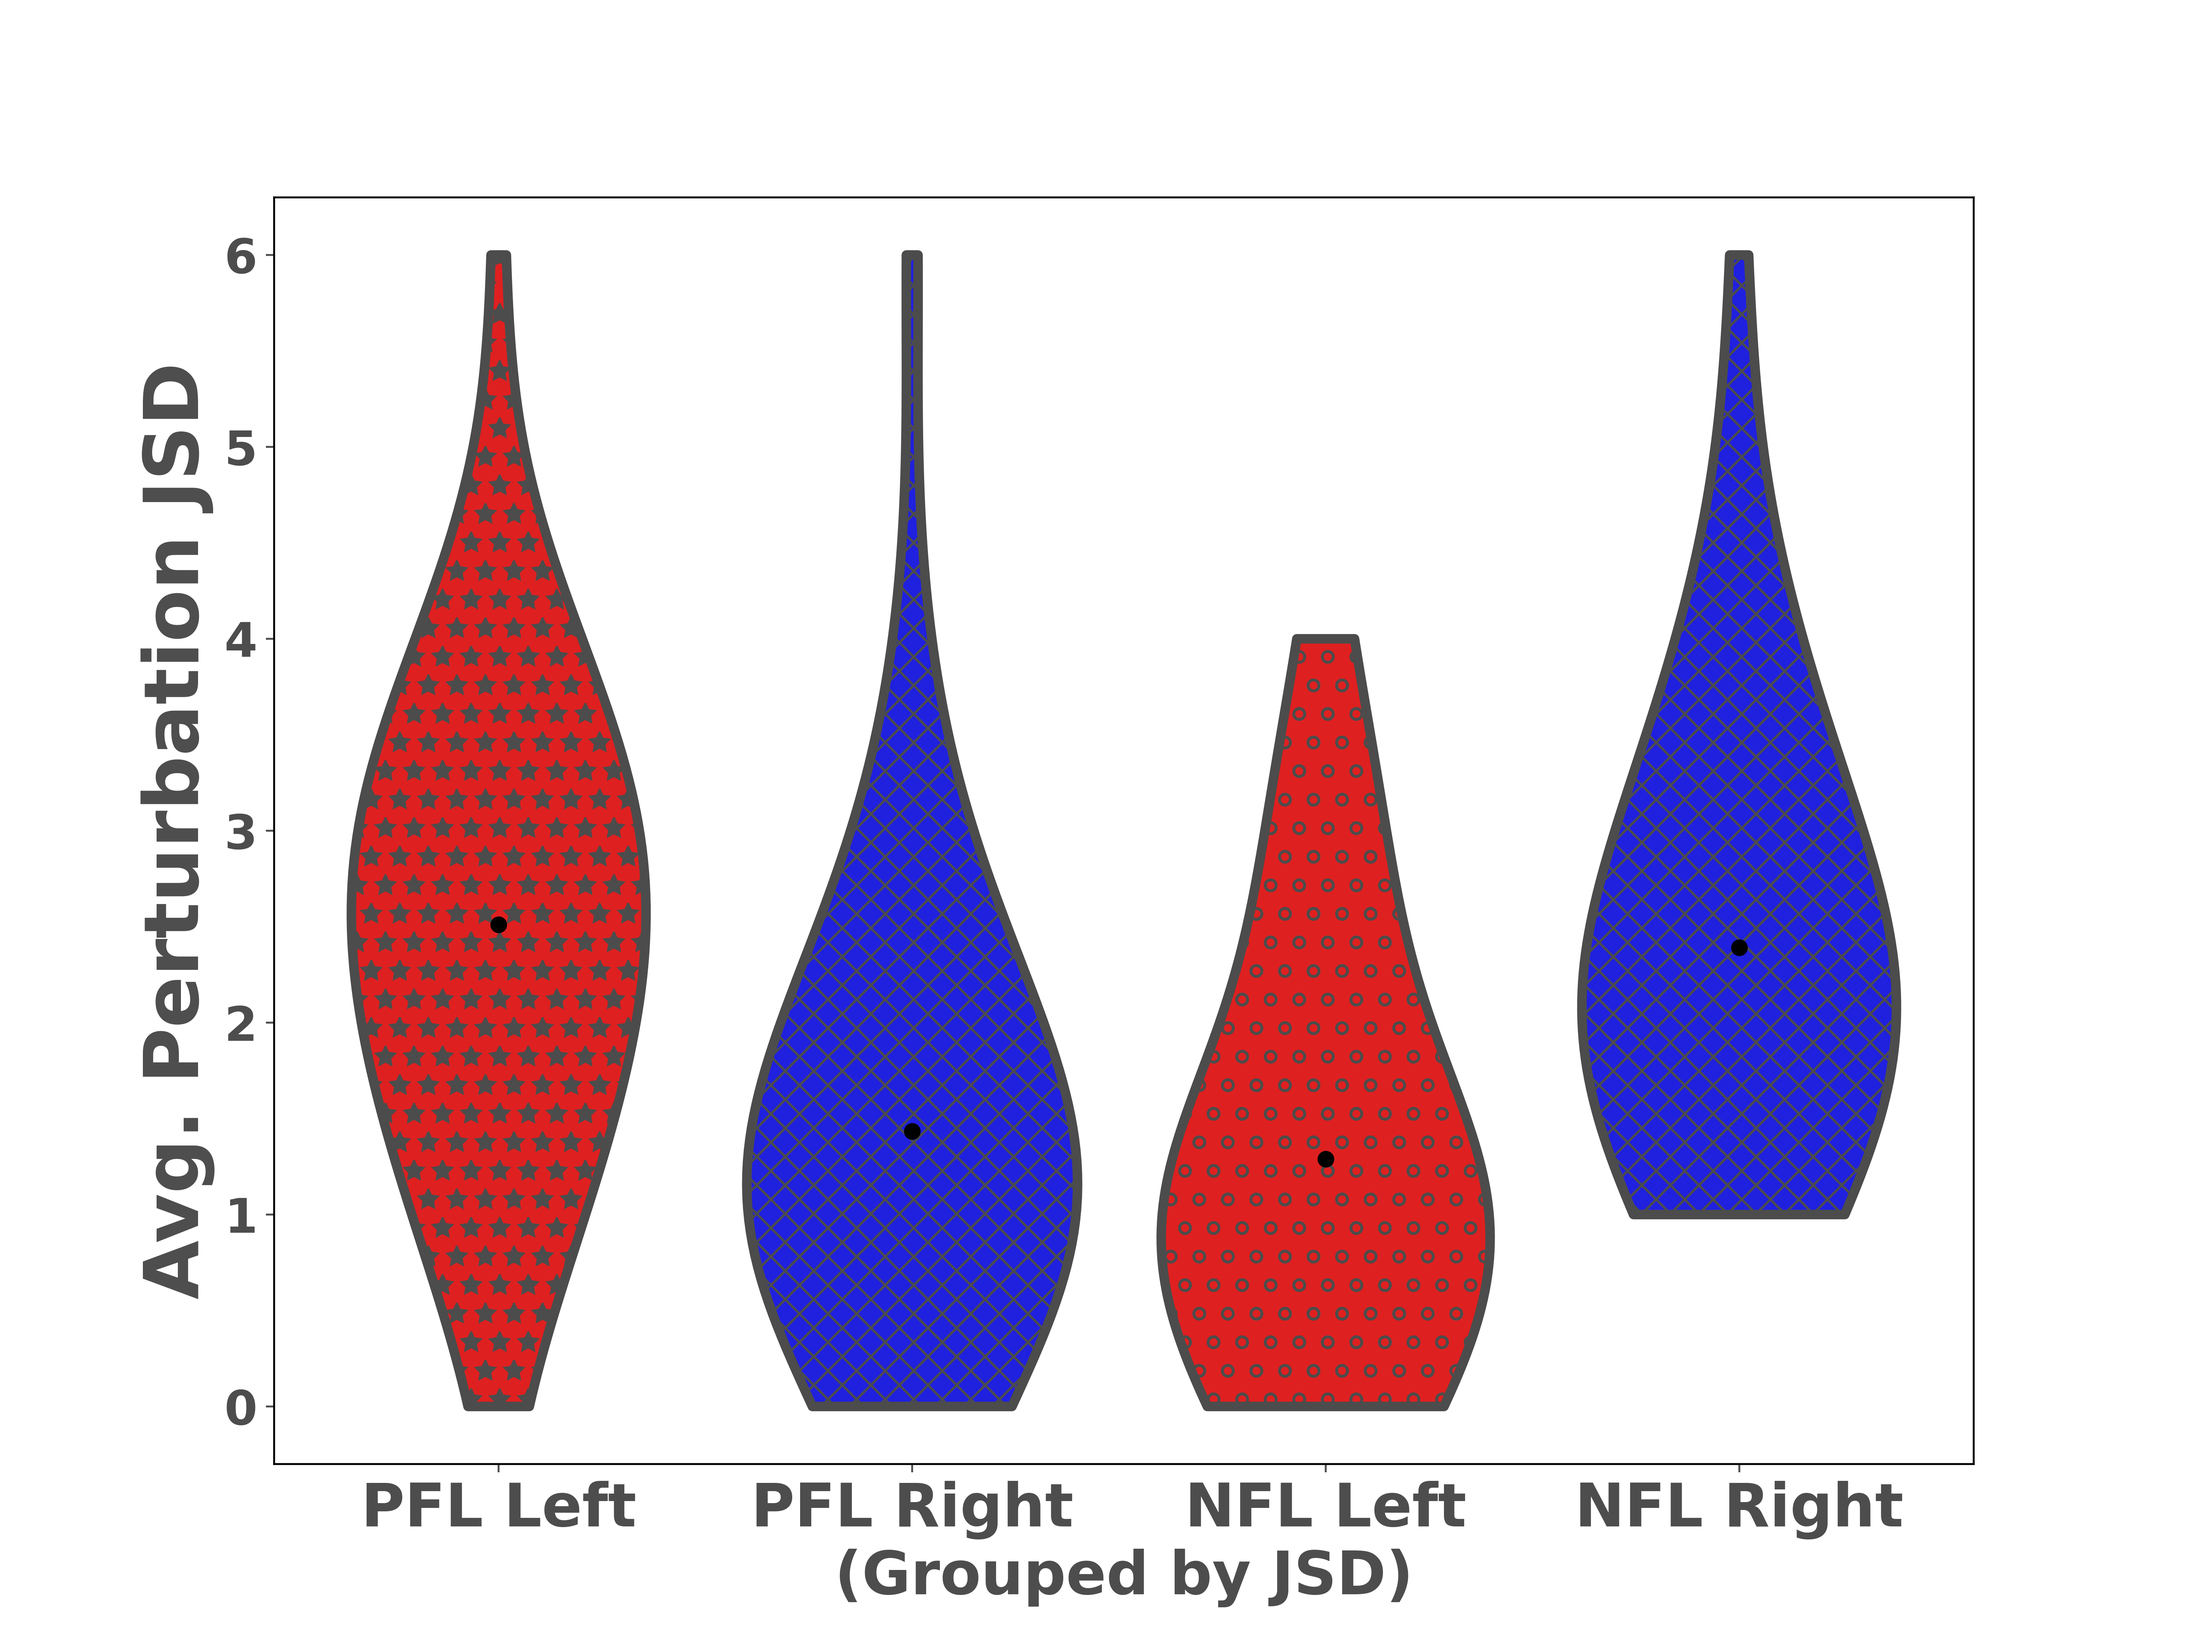
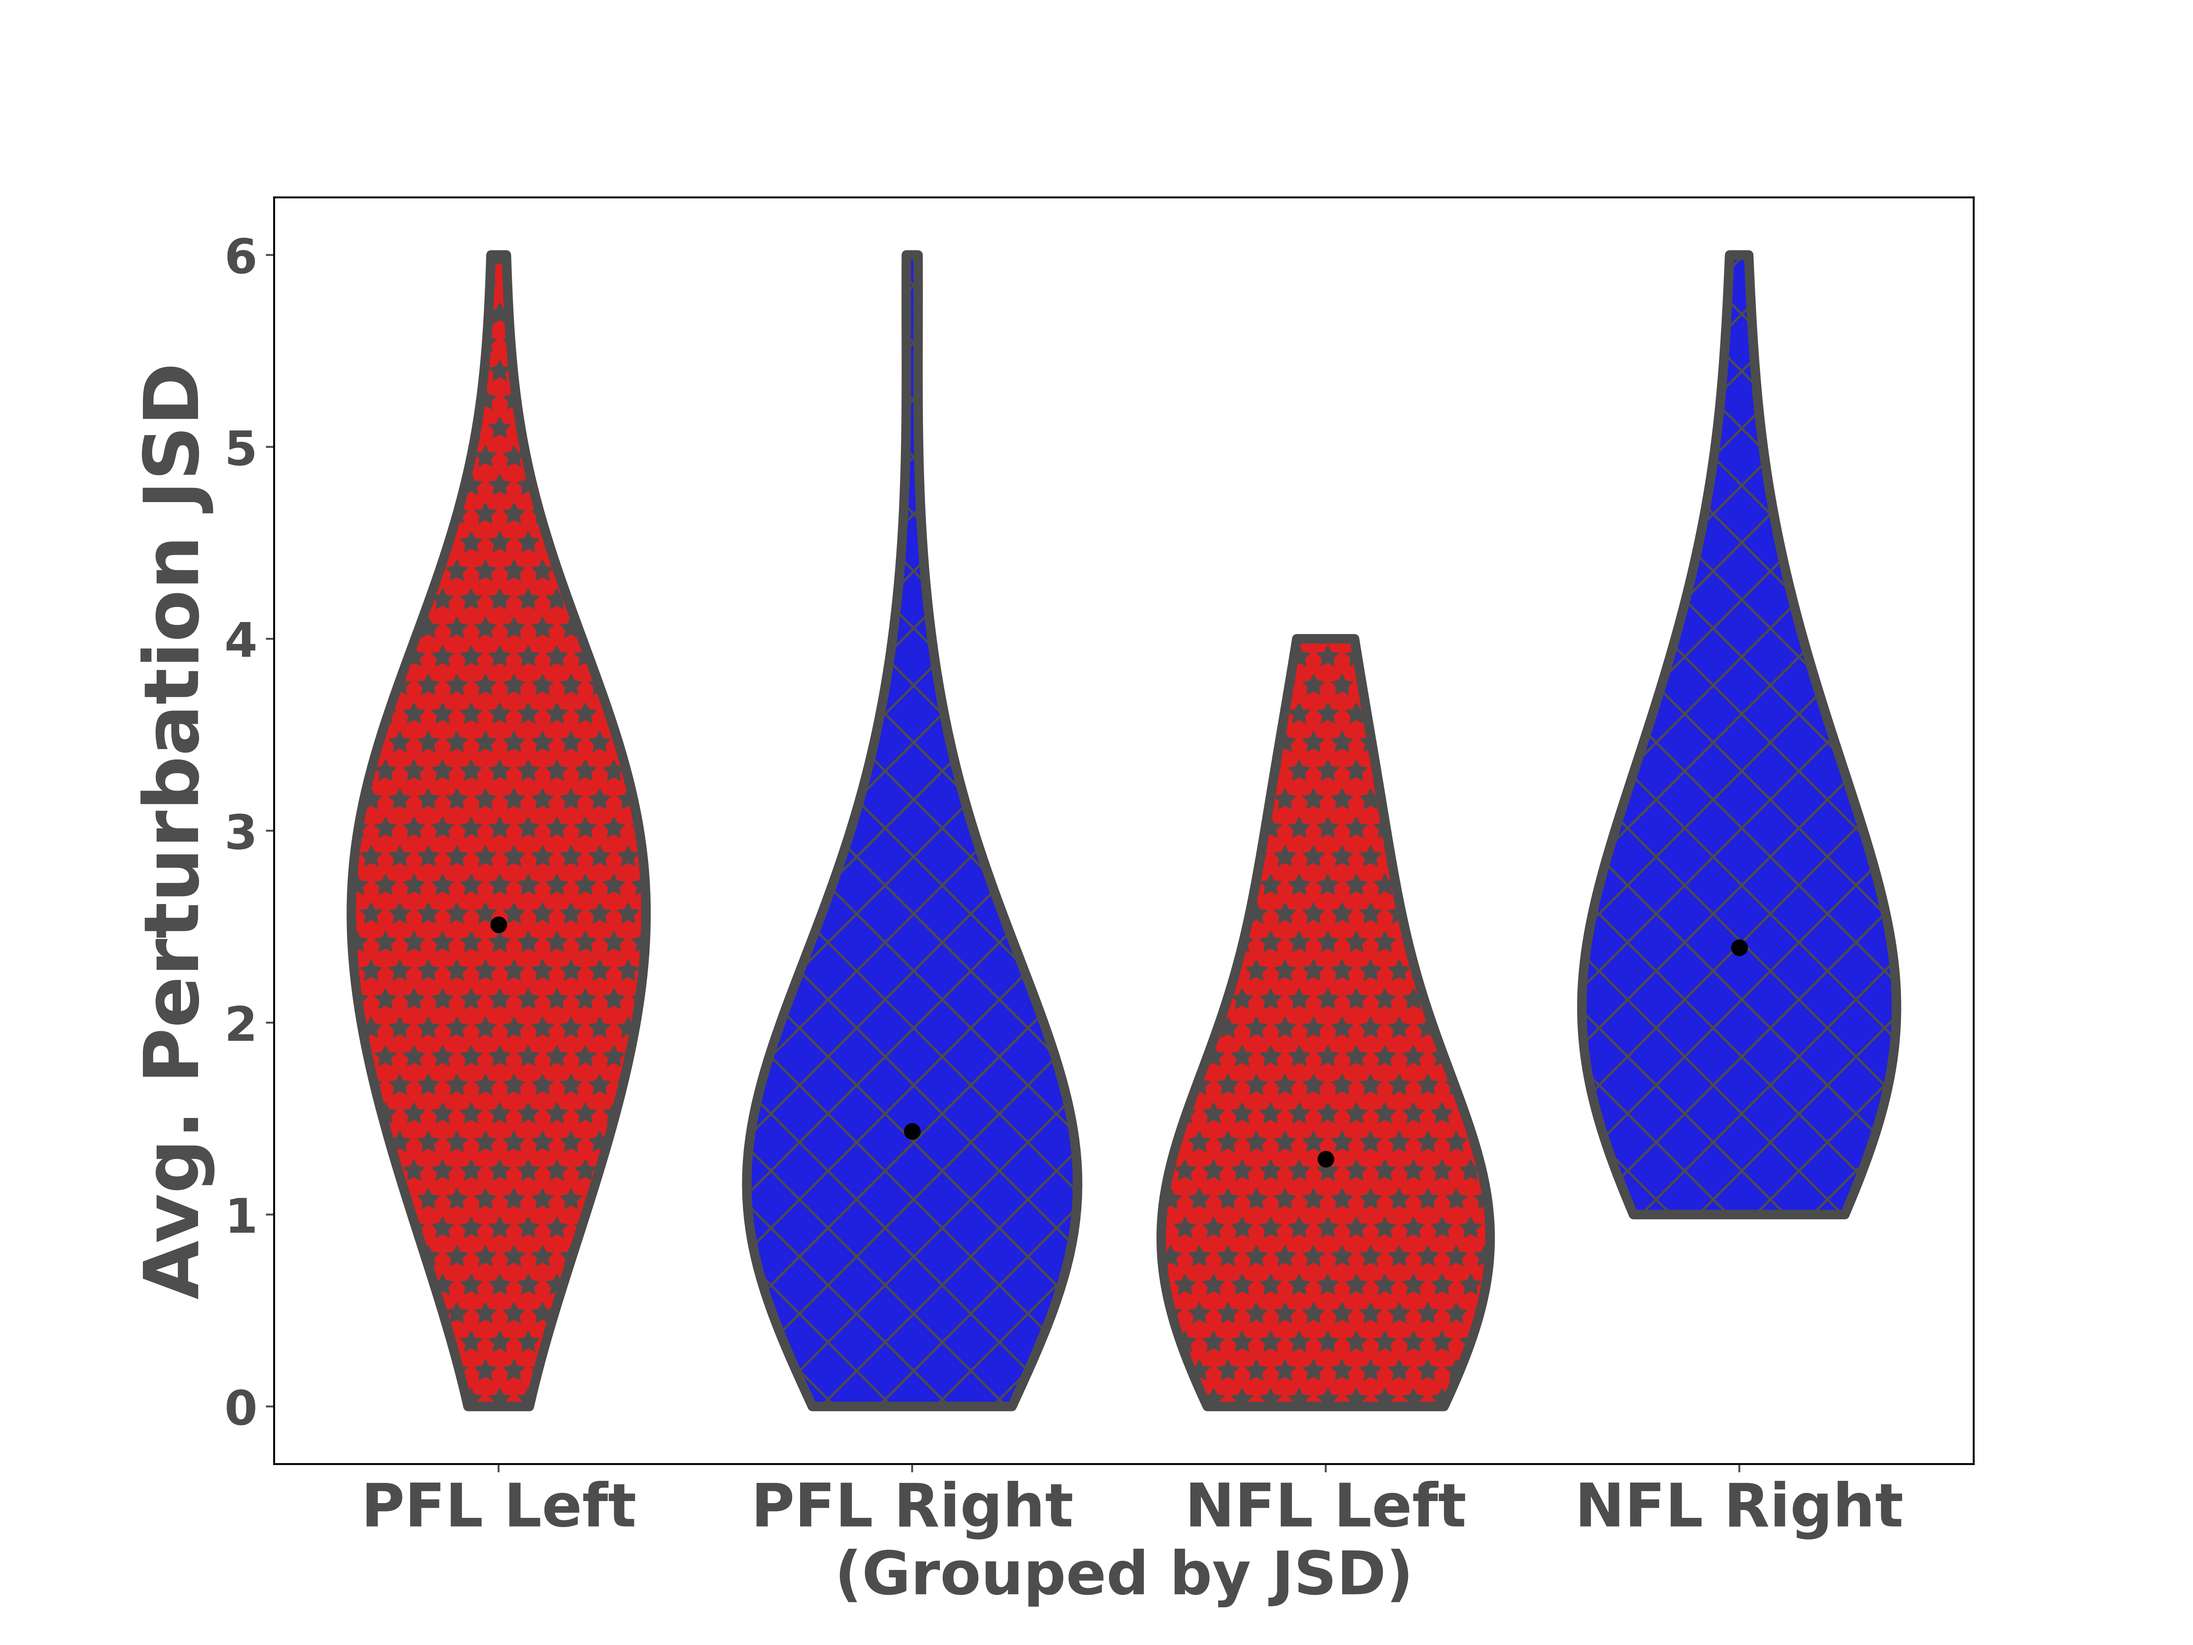
fixedfig8

Changed region(s): [[0.5312, 0.4062, 0.6875, 0.8438], [0.3438, 0.4688, 0.4688, 0.8438], [0.7188, 0.3125, 0.8438, 0.7188]]

diff --git a/Fig8/Causal_code_analysis/net_plotter.py b/Fig8/Causal_code_analysis/net_plotter.py
@@ -98,15 +98,16 @@ def lineplotter(net_name):
     x_arr_str = [str(i) for i in range(len(dn_pjsd_mean))]
     plt.xticks(x_arr,x_arr_str)
     x_arr = np.array(x_arr)
-    #plt.plot(x_arr, dn_pjsd_mean, color='b' , linestyle = 'solid' , linewidth = 4)
+    plt.plot(x_arr, dn_pjsd_mean, color='b' , linestyle = 'solid' , linewidth = 4)
     #plt.errorbar(x_arr,dn_pjsd_mean, dn_pjsd_err, ecolor='k', elinewidth = 4 , capsize = 12)
-    plt.errorbar(x_arr, dn_pjsd_mean, dn_pjsd_err, color='b' , linestyle = 'solid' , linewidth = 4, ecolor='k', elinewidth = 4, capsize = 16)
+    plt.errorbar(x_arr, dn_pjsd_mean, dn_pjsd_err, color='b' , linestyle = 'solid' , linewidth = 4, ecolor='k', elinewidth = 4, capsize = 16 , label = '_nolegend_')
     
     x_arr = [i for i in range(len(up_pjsd_mean))]
     x_arr_str = [str(i) for i in range(len(up_pjsd_mean))]
     plt.xticks(x_arr,x_arr_str)
     x_arr = np.array(x_arr)
-    plt.errorbar(x_arr, up_pjsd_mean,up_pjsd_err, color='g' , linestyle = 'dashed' , linewidth = 4, ecolor='k', elinewidth = 4, capsize = 16)
+    plt.plot(x_arr, up_pjsd_mean, color='g' , linestyle = 'dashed' , linewidth = 4)
+    plt.errorbar(x_arr, up_pjsd_mean,up_pjsd_err, color='g' , linestyle = 'dashed' , linewidth = 4, ecolor='k', elinewidth = 4, capsize = 16, label = '_nolegend_')
 
     
     plt.legend(['Increase FWPC', 'Decrease FWPC'])
@@ -153,14 +154,15 @@ def lineplotter2(fig,ax,net_name, c1,lstyle):
     x_arr_str = [str(i) for i in range(len(dn_pjsd_mean))]
     plt.xticks(x_arr,x_arr_str)
     x_arr = np.array(x_arr)
-    #plt.plot(x_arr, dn_pjsd_mean, color='b' , linestyle = 'solid' , linewidth = 4)
+    plt.plot(x_arr, dn_pjsd_mean, color=c1 ,linestyle = lstyle , linewidth = 4)
     #plt.errorbar(x_arr,dn_pjsd_mean, dn_pjsd_err, ecolor='k', elinewidth = 4 , capsize = 12)
-    plt.errorbar(x_arr, dn_pjsd_mean, dn_pjsd_err, color=c1 , linestyle = lstyle , linewidth = 4, ecolor='k', elinewidth = 4, capsize = 16)
+    plt.errorbar(x_arr, dn_pjsd_mean, dn_pjsd_err, color=c1 , linestyle = lstyle , linewidth = 4, ecolor='k', elinewidth = 4, capsize = 16, label='_nolegend_')
     
     x_arr = [i for i in range(len(up_pjsd_mean))]
     x_arr_str = [str(i) for i in range(len(up_pjsd_mean))]
     plt.xticks(x_arr,x_arr_str)
     x_arr = np.array(x_arr)
+    plt.plot(x_arr, up_pjsd_mean, color=c1 ,linestyle = lstyle , linewidth = 4, label='_nolegend_')
     plt.errorbar(x_arr, up_pjsd_mean, up_pjsd_err, color=c1 , linestyle = lstyle , linewidth = 4, ecolor='k', elinewidth = 4, capsize = 16, label='_nolegend_')
     
     
@@ -187,10 +189,19 @@ def lineplotter3(fig,ax,net_name, c1,lstyle):
 fig,ax = plt.subplots()    
 cols = ['r', 'b', 'g']
 styles = ['solid', 'dashed', 'dotted']
+
+
 for i in range(2,5):
     lineplotter3(fig, ax, "randomnet8_{}".format(i) + "_fix", cols[i-2] , styles[i-2])
 
-plt.legend( ['randomnet8_2'  , 'randomnet8_3'  ,'randomnet8_4'     ])
+plt.legend(['randomnet8_2'  , 'randomnet8_3'  ,'randomnet8_4'     ])
+
+#handles, labels = ax.get_legend_handles_labels()
+
+# remove the errorbars
+#handles = [h[0] for h in handles]
+#ax.legend(handles, labels)
+
 r = 2
     
 f=r*np.array(plt.rcParams["figure.figsize"])
@@ -218,6 +229,8 @@ for i in range(2,5):
     lineplotter2(fig, ax, "randomnet8_{}".format(i) + "_fix", cols[i-2] , styles[i-2])
 
 plt.legend( ['randomnet8_2'  , 'randomnet8_3'  ,'randomnet8_4'     ])
+
+
 r = 2
     
 f=r*np.array(plt.rcParams["figure.figsize"])

diff --git a/Fig5_6/ViolinPlots_Cycledistrib/violinplot_4_jsd.py b/Fig5_6/ViolinPlots_Cycledistrib/violinplot_4_jsd.py
@@ -84,7 +84,7 @@ r = 2
 fig,ax = plt.subplots()
 ax = seaborn.violinplot( data = data_matrix ,inner=None , bw = 0.7, cut=0 ,palette=['r','b','r','b'] , linewidth = 4)
 
-hatch = ['*','xx','o','xx']
+hatch = ['*','x','*','x']
 ihatch = iter(hatch)
 _ = [i.set_hatch(next(ihatch)) for i in ax.get_children() if isinstance(i, mpl.collections.PolyCollection)]
 ax.set_xticklabels(labels,fontsize = 25)

diff --git a/Fig5_6/ViolinPlots_Cycledistrib/violinplot_4_plast.py b/Fig5_6/ViolinPlots_Cycledistrib/violinplot_4_plast.py
@@ -115,7 +115,7 @@ r = 2
 fig,ax = plt.subplots()
 ax = seaborn.violinplot( data = data_matrix ,inner=None , bw = 0.7, cut=0 ,palette=['r','b','r','b'] , linewidth = 4)
 
-hatch = ['*','xx','o','xx']
+hatch = ['*','x','*','x']
 ihatch = iter(hatch)
 _ = [i.set_hatch(next(ihatch)) for i in ax.get_children() if isinstance(i, mpl.collections.PolyCollection)]
 
